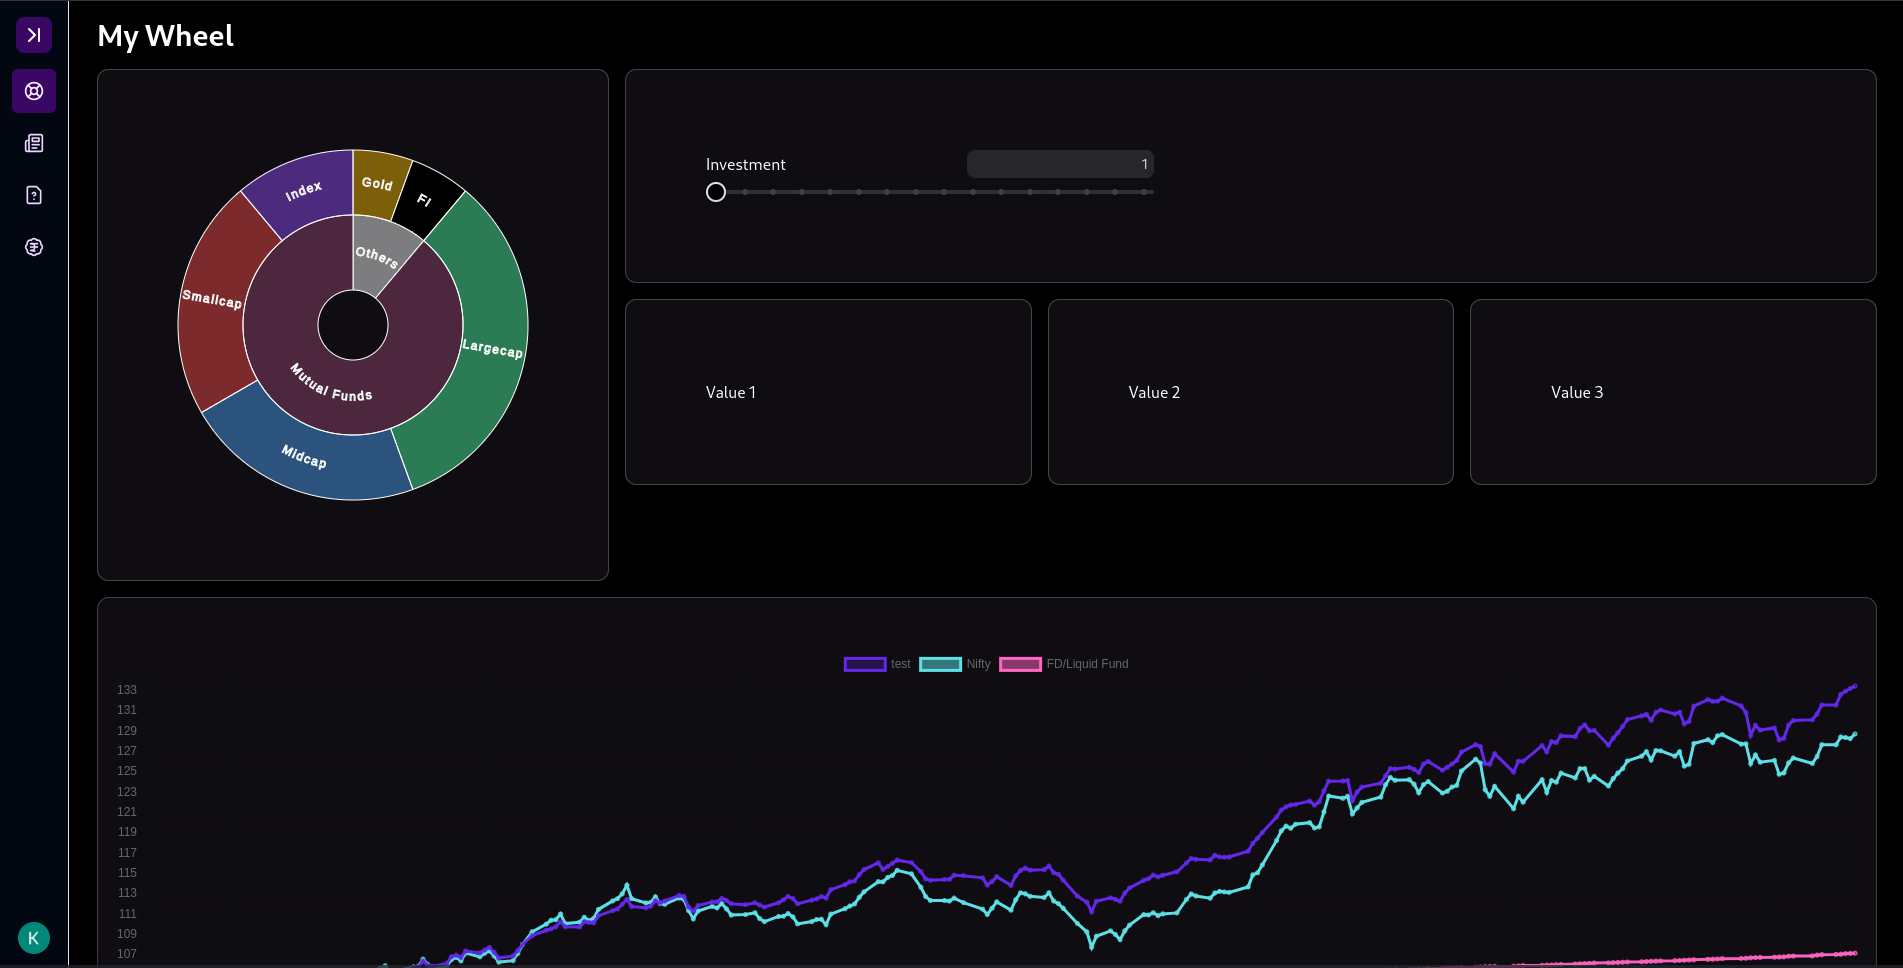
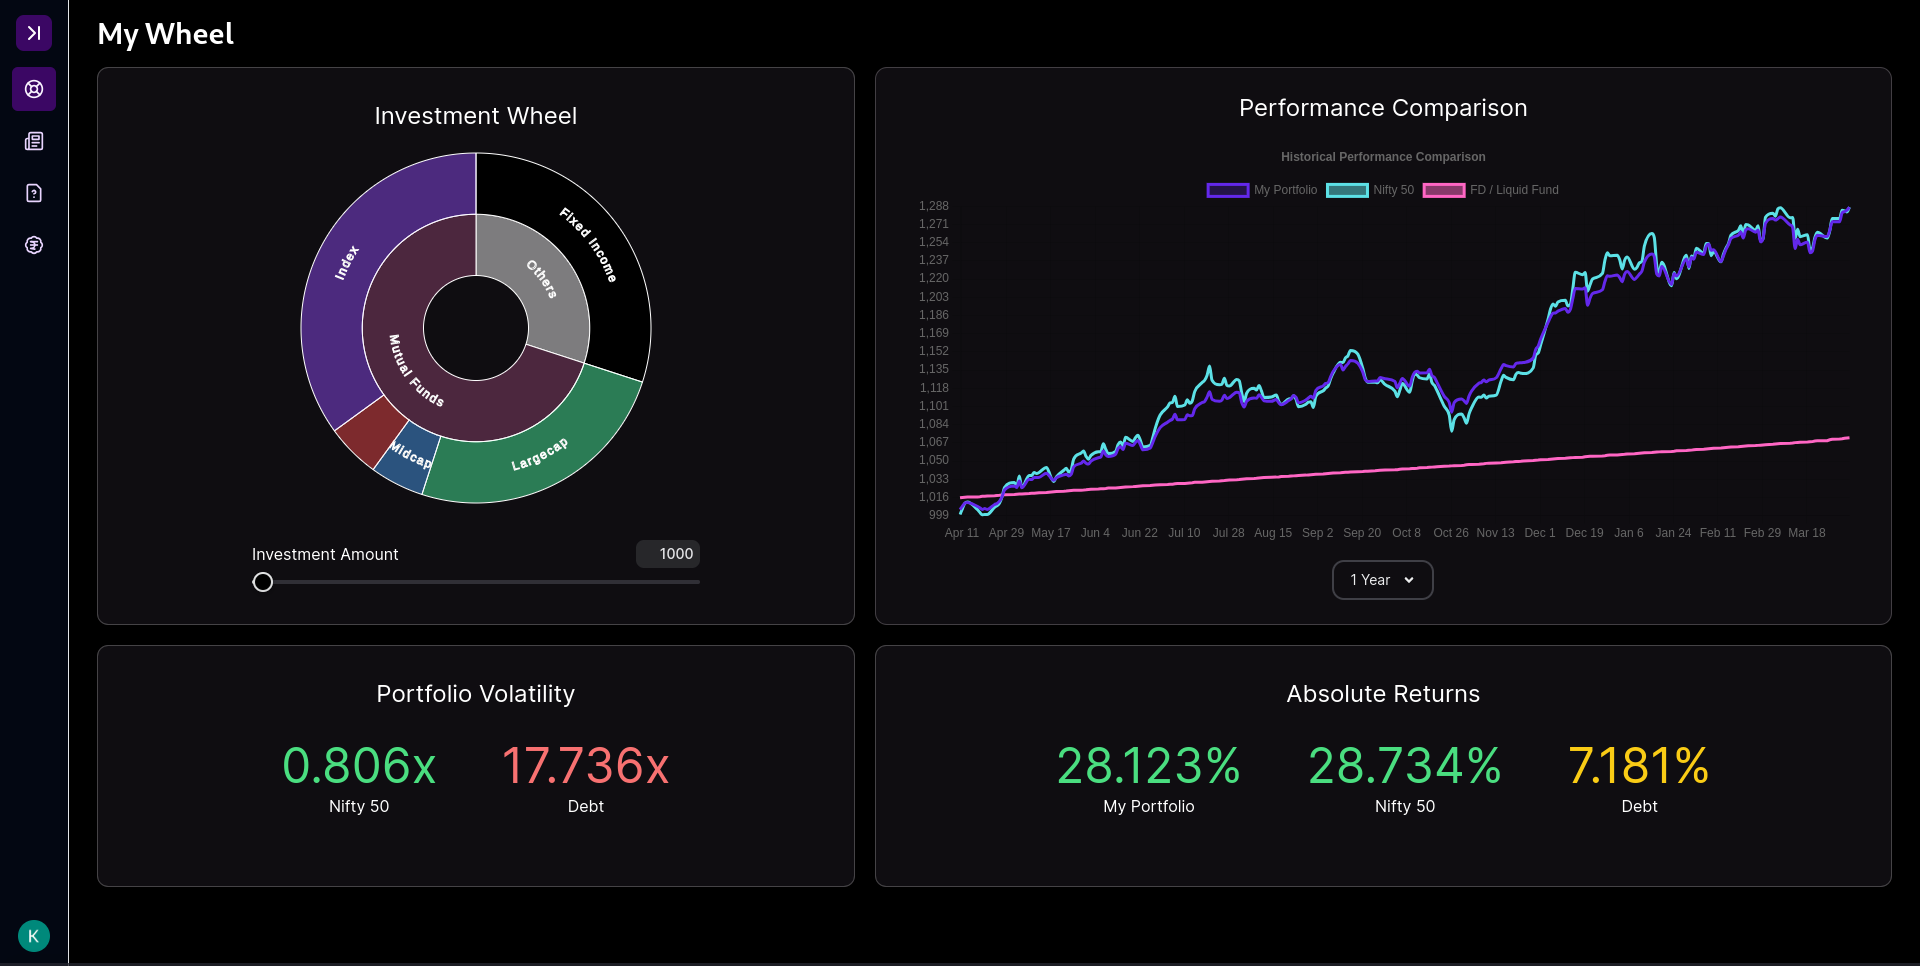
responsiveness fixes

diff --git a/src/app/dashboards/my-wheel/page.jsx b/src/app/dashboards/my-wheel/page.jsx
@@ -55,7 +55,7 @@ export default function MyWheel() {
     // Only fetch on load
     useEffect(() => {
         if (!isLoading && user) {
-            
+
             fetch(process.env.NEXT_PUBLIC_API_BASE_URL + "/portfolio/", {
                 method: 'POST',
                 headers: {
@@ -191,17 +191,20 @@ export default function MyWheel() {
         <>
             <h1 className="w-full py-4 text-3xl font-bold">My Wheel</h1>
 
-            <div className="parent grid grid-cols-7 grid-rows-3 gap-5 font-inter">
-                <div className="div1 md:col-span-3 col-span-full row-span-2">
-                    <div className="box relative flex flex-col justify-between w-full h-full p-20 bg-[rgba(216,184,241,0.07)] border border-[rgba(255,255,255,0.222)] hover:border-white backdrop-blur-[20px] rounded-[0.7rem] transition-all duration-300 ease-in-out">
+            <div className="parent grid grid-cols-7 grid-rows-2 md:grid-rows-3 gap-5 font-inter mb-20 md:mb-0">
+                <div className="div1 md:col-span-3 col-span-full md:row-span-2">
+
+                <div className="box relative flex flex-col justify-between items-center w-full h-full p-8 bg-[rgba(216,184,241,0.07)] border border-[rgba(255,255,255,0.222)] backdrop-blur-[20px] hover:border-white rounded-[0.7rem] transition-all duration-300 ease-in-out">
+                    <h1 className="text-2xl">Investment Wheel</h1>
+
                         {chartData && <MySunburstChart data={chartData} amount={parseInt(inputValue)} />}
                         <div className="pb-0 p-4 flex self-center items-center justify-center w-full">
                             <Slider
                                 label="Investment Amount"
-                                size="md"
-                                step={1000}
+                                size="sm"
+                                step={500}
                                 maxValue={150000}
-                                minValue={0}
+                                minValue={500}
                                 color="foreground"
                                 classNames={{
                                     base: "max-w-md",
@@ -242,10 +245,15 @@ export default function MyWheel() {
 
                     </div>
                 </div>
-                <div className="div2 md:col-span-4 col-span-full row-span-2">
+                <div className="div2 md:col-span-4 col-span-full md:row-span-2">
                     <div className="w-full h-full">
-                        <div className='flex flex-col justify-center shadow-soft bg-[rgba(216,184,241,0.07)] border border-[rgba(244,235,248,0.22)] backdrop-blur-[20px] hover:border-white transition-all duration-300 ease-in-out rounded-xl items-center self-center w-full h-full'>
-                            {pastPortfolio && <LineChart amount={parseInt(inputValue)} data={pastPortfolio} data2={pastNifty} data3={pastDebt} xKey={"date"} yKey={"nav"} dataSetTitle={"My Portfolio"} />}
+                        <div className='flex flex-col justify-center p-6 shadow-soft bg-[rgba(216,184,241,0.07)] border border-[rgba(244,235,248,0.22)] backdrop-blur-[20px] hover:border-white transition-all duration-300 ease-in-out rounded-xl items-center self-center w-full h-full'>
+                        <h1 className="text-2xl">Performance Comparison</h1>
+
+                            <div className="h-96 md:h-full w-full">
+                                {pastPortfolio && <LineChart amount={parseInt(inputValue)} data={pastPortfolio} data2={pastNifty} data3={pastDebt} xKey={"date"} yKey={"nav"} dataSetTitle={"My Portfolio"} />}
+
+                            </div>
                             <div className="flex flex-row font-inter justify-center align-middle">
                                 <Dropdown>
                                     <DropdownTrigger>
@@ -276,8 +284,8 @@ export default function MyWheel() {
                 </div>
                 <div className="div4 md:col-span-3 col-span-full row-span-1">
                     <div className="box relative flex flex-col justify-center items-center w-full p-8 bg-[rgba(216,184,241,0.07)] border border-[rgba(255,255,255,0.222)] backdrop-blur-[20px] hover:border-white rounded-[0.7rem] transition-all duration-300 ease-in-out">
-                        <h1 className="text-lg">Portfolio Volatility</h1>
-                        <div className="flex flex-row">
+                        <h1 className="text-2xl">Portfolio Volatility</h1>
+                        <div className="flex md:flex-row flex-col">
                             <Stat title={"Nifty 50"} style={`${vsNifty <= 1 ? "text-green-400" : "text-red-400"}`} value={vsNifty + "x"} />
                             <Stat title={"Debt"} style={`${vsDebt <= 10 ? "text-green-400" : "text-red-400"}`} value={vsDebt + "x"} />
                         </div>
@@ -285,7 +293,7 @@ export default function MyWheel() {
                 </div>
                 <div className="div5 md:col-span-4 col-span-full row-span-1">
                     <div className="box relative flex flex-col justify-center items-center w-full p-8 bg-[rgba(216,184,241,0.07)] border border-[rgba(255,255,255,0.222)] backdrop-blur-[20px] hover:border-white rounded-[0.7rem] transition-all duration-300 ease-in-out">
-                        <h1 className="text-lg">Absolute Returns</h1>
+                        <h1 className="text-2xl">Absolute Returns</h1>
                         <div className="flex md:flex-row flex-col ">
                             <Stat title={"My Portfolio"} style={`${retPf > 6 * parseInt(selectedValue.split(" ")[0]) ? retPf > 12 * parseInt(selectedValue.split(" ")[0]) ? "text-green-400" : "text-yellow-400" : "text-red-400"}`} value={retPf + "%"} />
                             <Stat title={"Nifty 50"} style={`${retNifty > 6 * parseInt(selectedValue.split(" ")[0]) ? retNifty > 12 * parseInt(selectedValue.split(" ")[0]) ? "text-green-400" : "text-yellow-400" : "text-red-400"}`} value={retNifty + "%"} />

diff --git a/src/components/MySunburstChart.jsx b/src/components/MySunburstChart.jsx
@@ -1,10 +1,12 @@
 'use client'
 import React, { useRef, useEffect, useState } from "react";
 import fromKapsule from "react-kapsule";
+import { useMediaQuery } from '@react-hook/media-query';
 
 export default function Chart({ data, amount }) {
   const [ReactSunburst, setReactSunburst] = useState(null);
   const chartRef = useRef(null);
+  const isMobile = useMediaQuery('(max-width: 768px)'); // Adjust the breakpoint as needed
 
   useEffect(() => {
     if (typeof window !== 'undefined') {
@@ -17,24 +19,47 @@ export default function Chart({ data, amount }) {
     }
   }, []);
 
+  useEffect(() => {
+    const resizeObserver = new ResizeObserver((entries) => {
+      for (let entry of entries) {
+        const { width, height } = entry.contentRect;
+        if (chartRef.current) {
+          chartRef.current.width = width;
+          chartRef.current.height = height;
+        }
+      }
+    });
+
+    if (chartRef.current) {
+      resizeObserver.observe(chartRef.current);
+    }
+
+    return () => {
+      if (chartRef.current) {
+        resizeObserver.unobserve(chartRef.current);
+      }
+    };
+  }, []);
+
+  const chartSize = isMobile ? 280 : 350; // Adjust the size for mobile devices
+
   return (
-    <div className="flex font-poppins w-full justify-center items-center self-center">
+    <div className="flex font-poppins w-full justify-center items-center self-center" style={{ maxWidth: '100%', height: 'auto' }}>
       {ReactSunburst ? (
         <ReactSunburst
           nodeClassName="style"
           ref={chartRef}
-          width={350}
-          height={350}
+          width={chartSize} // Adjusted size
+          height={chartSize} // Adjusted size
           maxLevels={2}
           excludeRoot
           labelOrientation={"angular"}
           label="name"
           size="value"
-          color="color" 
+          color="color"
           centerRadius={0.3}
           radiusScaleExponent={1}
-          // transitionDuration={800}
-          tooltipContent={(d, node) => `${(node.value/100)*amount}`}
+          tooltipContent={(d, node) => `${(node.value / 100) * amount}`}
           data={data}
           onClick={(node) => {
             chartRef.current.focusOnNode(node);

diff --git a/src/components/expense-table/ExpenseTable.tsx b/src/components/expense-table/ExpenseTable.tsx
@@ -26,7 +26,7 @@ import UploadForm from "../UploadForm";
 import AddExpense from "./AddExpense";
 
 
-const INITIAL_VISIBLE_COLUMNS = ["transaction_id", "beneficiary","date", "deposit_amt", "withdrawal_amt", "mode"];
+const INITIAL_VISIBLE_COLUMNS = ["transaction_id", "beneficiary", "date", "deposit_amt", "withdrawal_amt", "mode"];
 
 
 
@@ -50,7 +50,7 @@ export default function ExpenseTable() {
         const fetchTransactions = async () => {
             if (isUserAvailable && user?.id) {
                 try {
-                    const response = await fetch(process.env.NEXT_PUBLIC_API_BASE_URL+`/transactions/{$user.id}`);
+                    const response = await fetch(process.env.NEXT_PUBLIC_API_BASE_URL + `/transactions/{$user.id}`);
                     const data = await response.json();
                     const flattened = data?.result.map((transaction: { [x: string]: any; Beneficiary: any; Category: any; Date: any; Mode: any; UPI_Handle: any; transaction_id: any; }, index: number) => ({
                         beneficiary: transaction.Beneficiary,
@@ -228,7 +228,7 @@ export default function ExpenseTable() {
     const topContent = React.useMemo(() => {
         return (
             <div className="flex flex-col gap-4">
-                <div className="flex justify-between gap-3 items-end">
+                <div className="flex flex-col lg:flex-row justify-between gap-3 items-center md:items-end">
                     <Input
                         isClearable
                         className="w-full sm:max-w-[44%]"
@@ -238,7 +238,7 @@ export default function ExpenseTable() {
                         onClear={() => onClear()}
                         onValueChange={onSearchChange}
                     />
-                    <div className="flex gap-3">
+                    <div className="flex flex-col justify-center items-center align-middle md:flex-row gap-3">
                         <UploadForm></UploadForm>
                         <Dropdown>
                             <DropdownTrigger className="hidden sm:flex">

diff --git a/src/components/NewsCards.tsx b/src/components/NewsCards.tsx
@@ -9,7 +9,7 @@ export function NewsCards() {
   useEffect(() => {
     async function fetchNews() {
       try {
-        const response = await fetch("http://127.0.0.1:5000/news/");
+        const response = await fetch(process.env.NEXT_PUBLIC_API_BASE_URL + "/news/");
         const data = await response.json();
         setNews(data);
         setIsLoading(false);

diff --git a/src/components/LineChart.jsx b/src/components/LineChart.jsx
@@ -99,7 +99,7 @@ function LineChart({ data, data2, data3, dataSetTitle, xKey, yKey, amount=100 })
 
     return (
 
-        <div className=" p-4 w-full min-h-max">
+        <div className=" p-4 w-full h-full">
             <Line options={lineOptions} data={formatted_data} />
         </div>
     )
